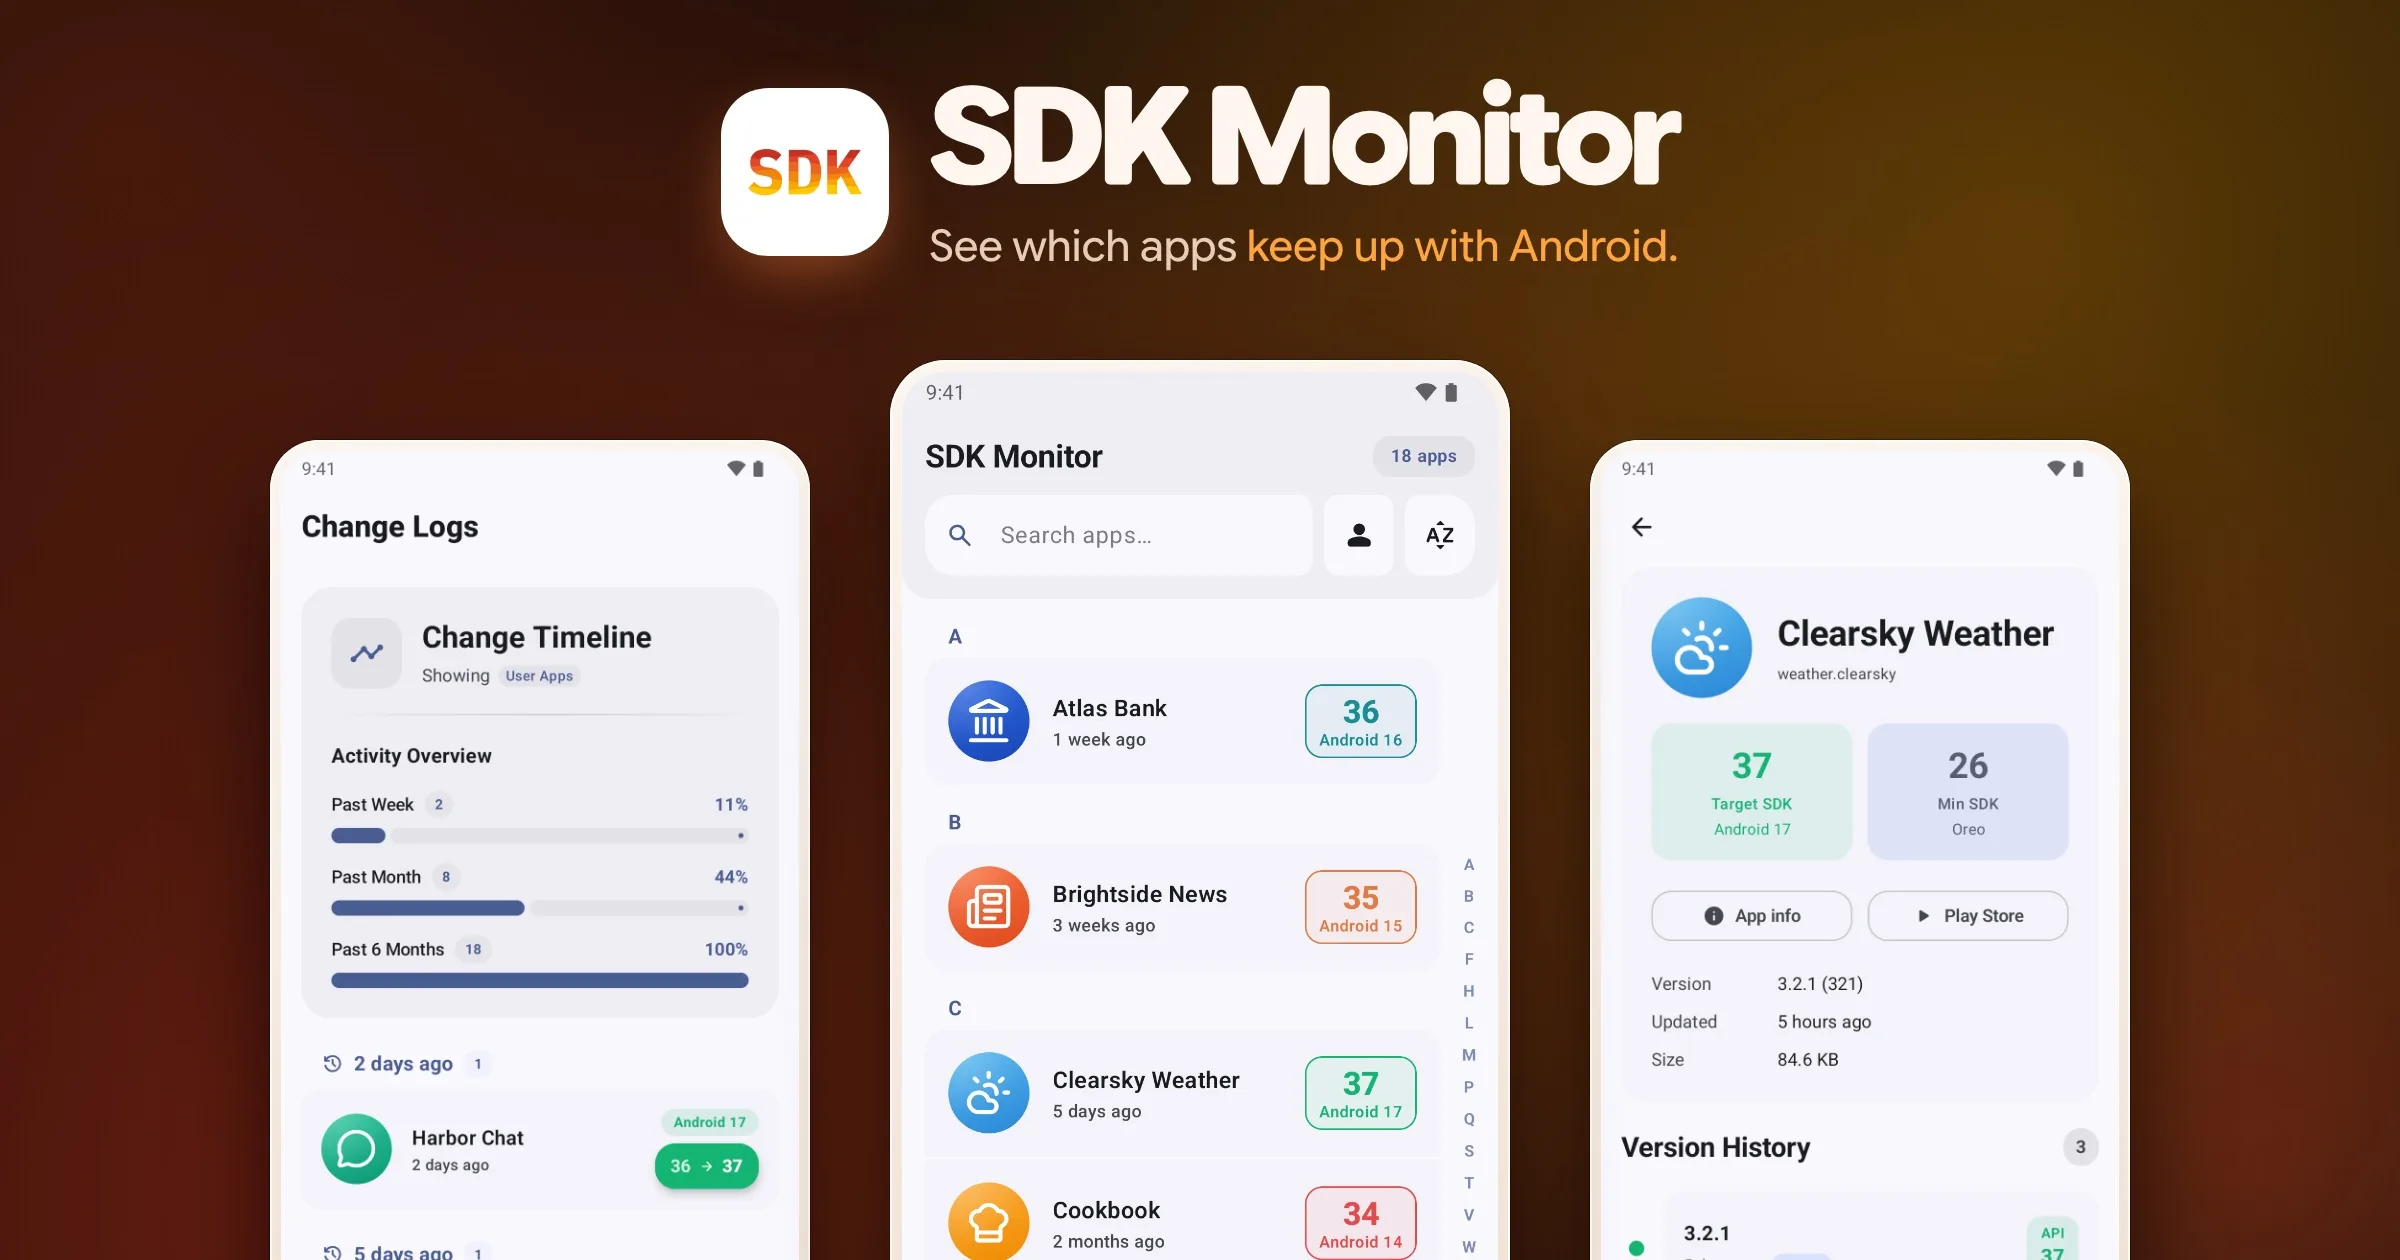
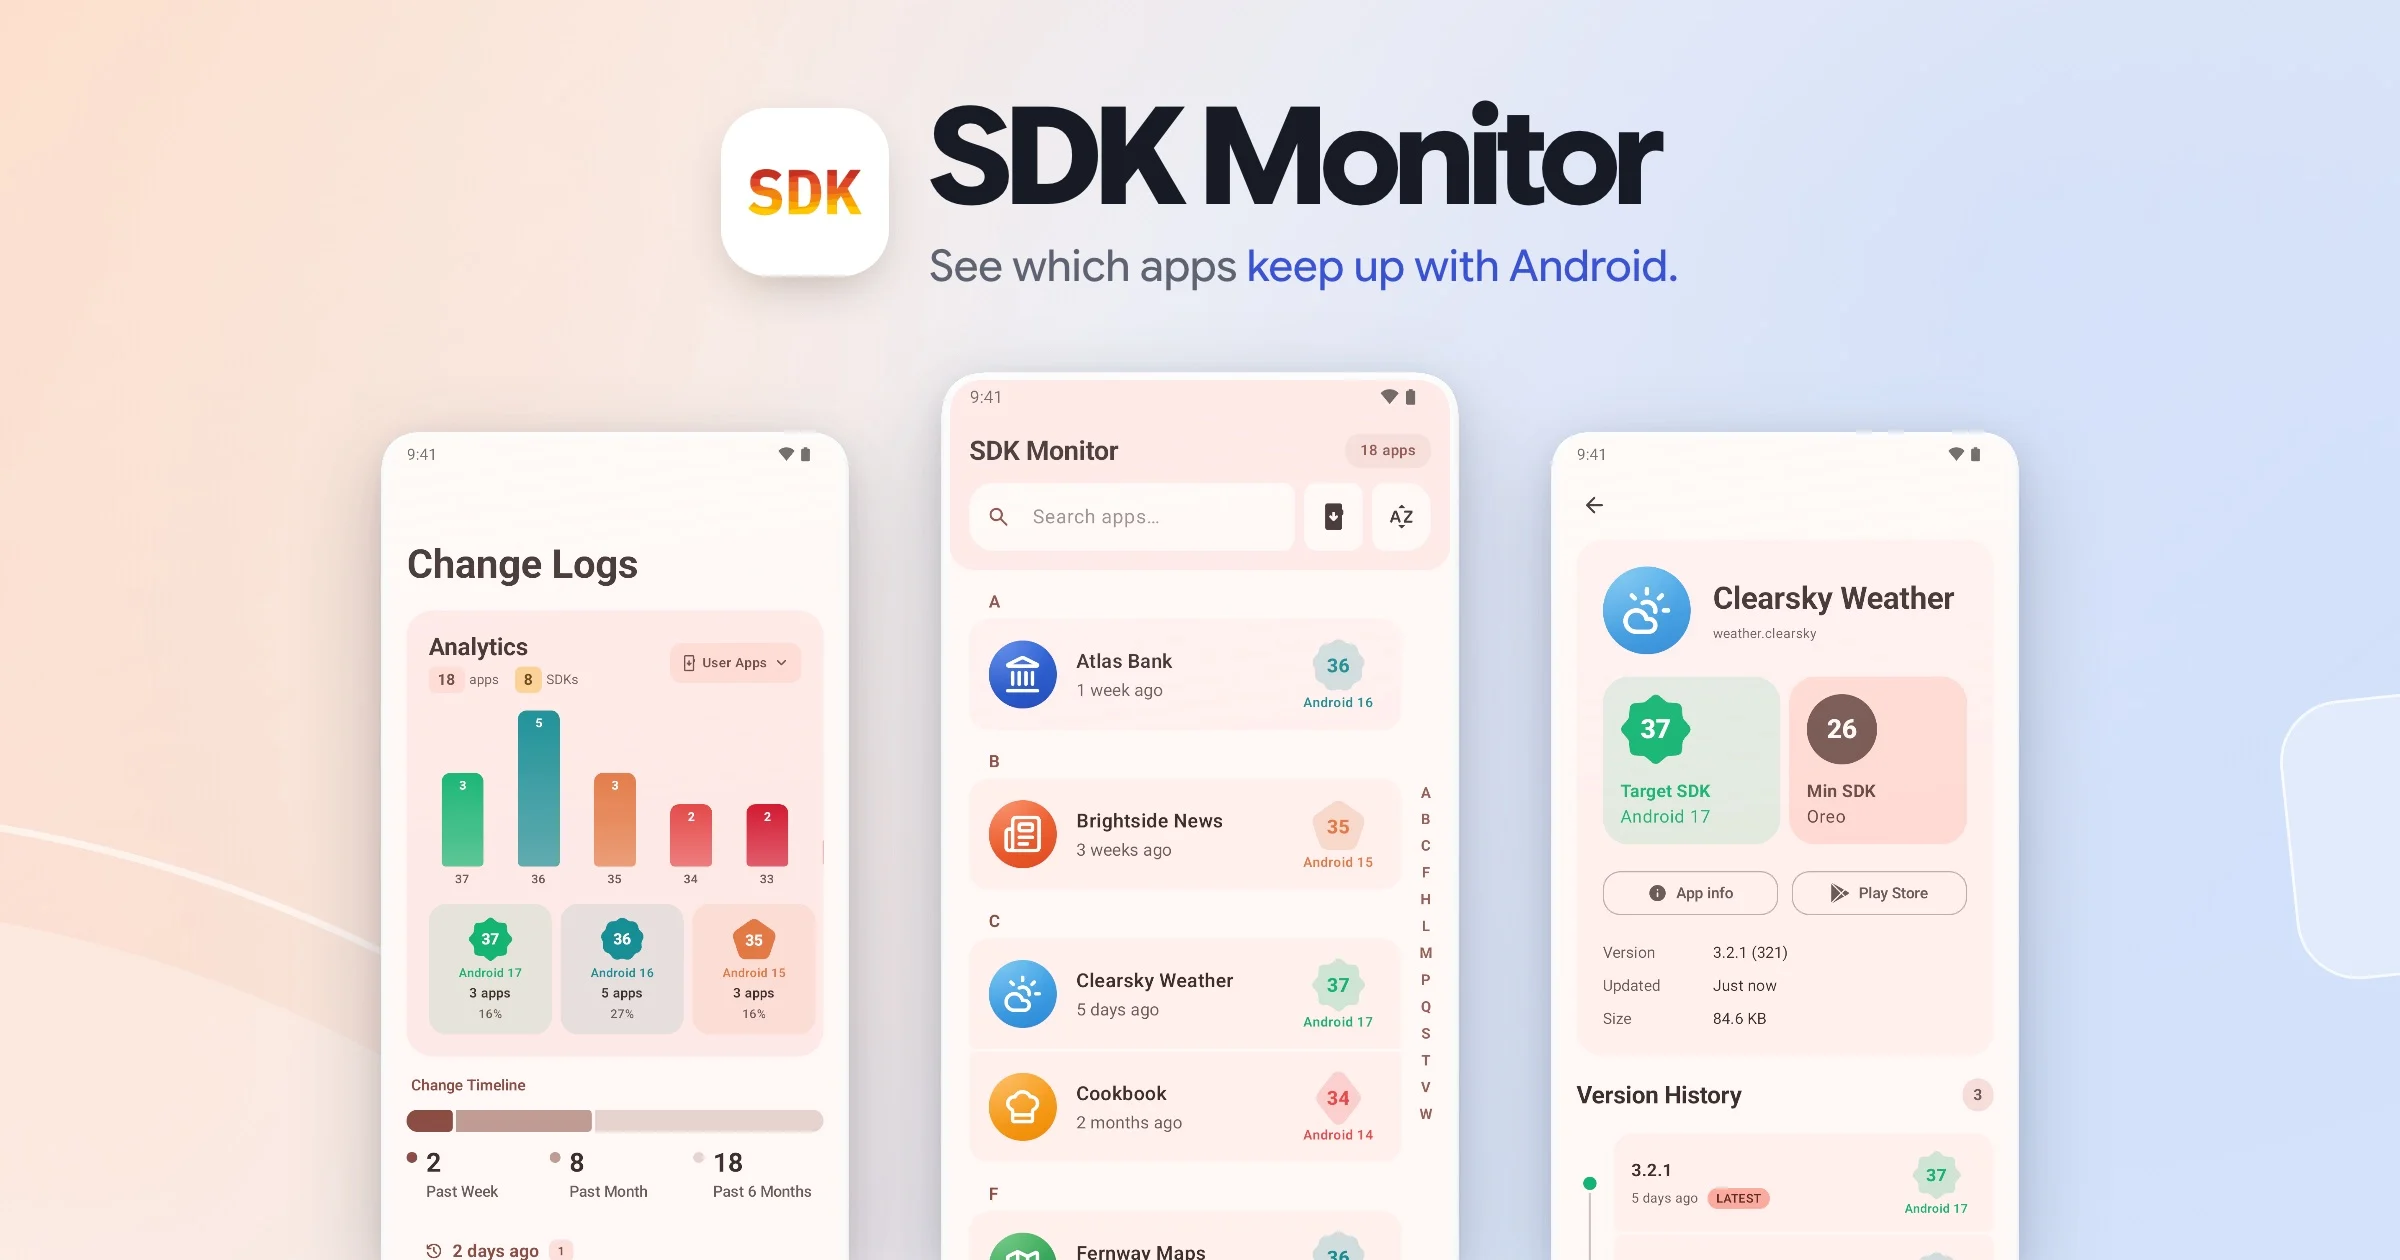
SDK Monitor images from the final captures, with a tablet image

diff --git a/lib/apps.ts b/lib/apps.ts
@@ -163,9 +163,10 @@ export const apps: AppData[] = [
     repoUrl: "https://github.com/bernaferrari/SDKMonitor",
     demoUrl: "https://sdkmonitor.vercel.app/",
     images: [
-      { file: "hero", alt: "The change log, the app list with target SDKs, and an app's version history" },
-      { file: "tools", alt: "An app's version history, the change log, and offline settings" },
-      { file: "big-screen", alt: "SDK Monitor on a tablet" },
+      { file: "hero", alt: "SDK analytics, the app list with every app's target SDK, and an app's details" },
+      { file: "tools", alt: "SDK analytics by Android version, the change log, and an app's version history" },
+      { file: "tablet", alt: "SDK analytics and the change log on a tablet, beside a phone" },
+      { file: "big-screen", alt: "The app list on a tablet, and an app's details in dark mode on a phone" },
     ],
   },
   {
